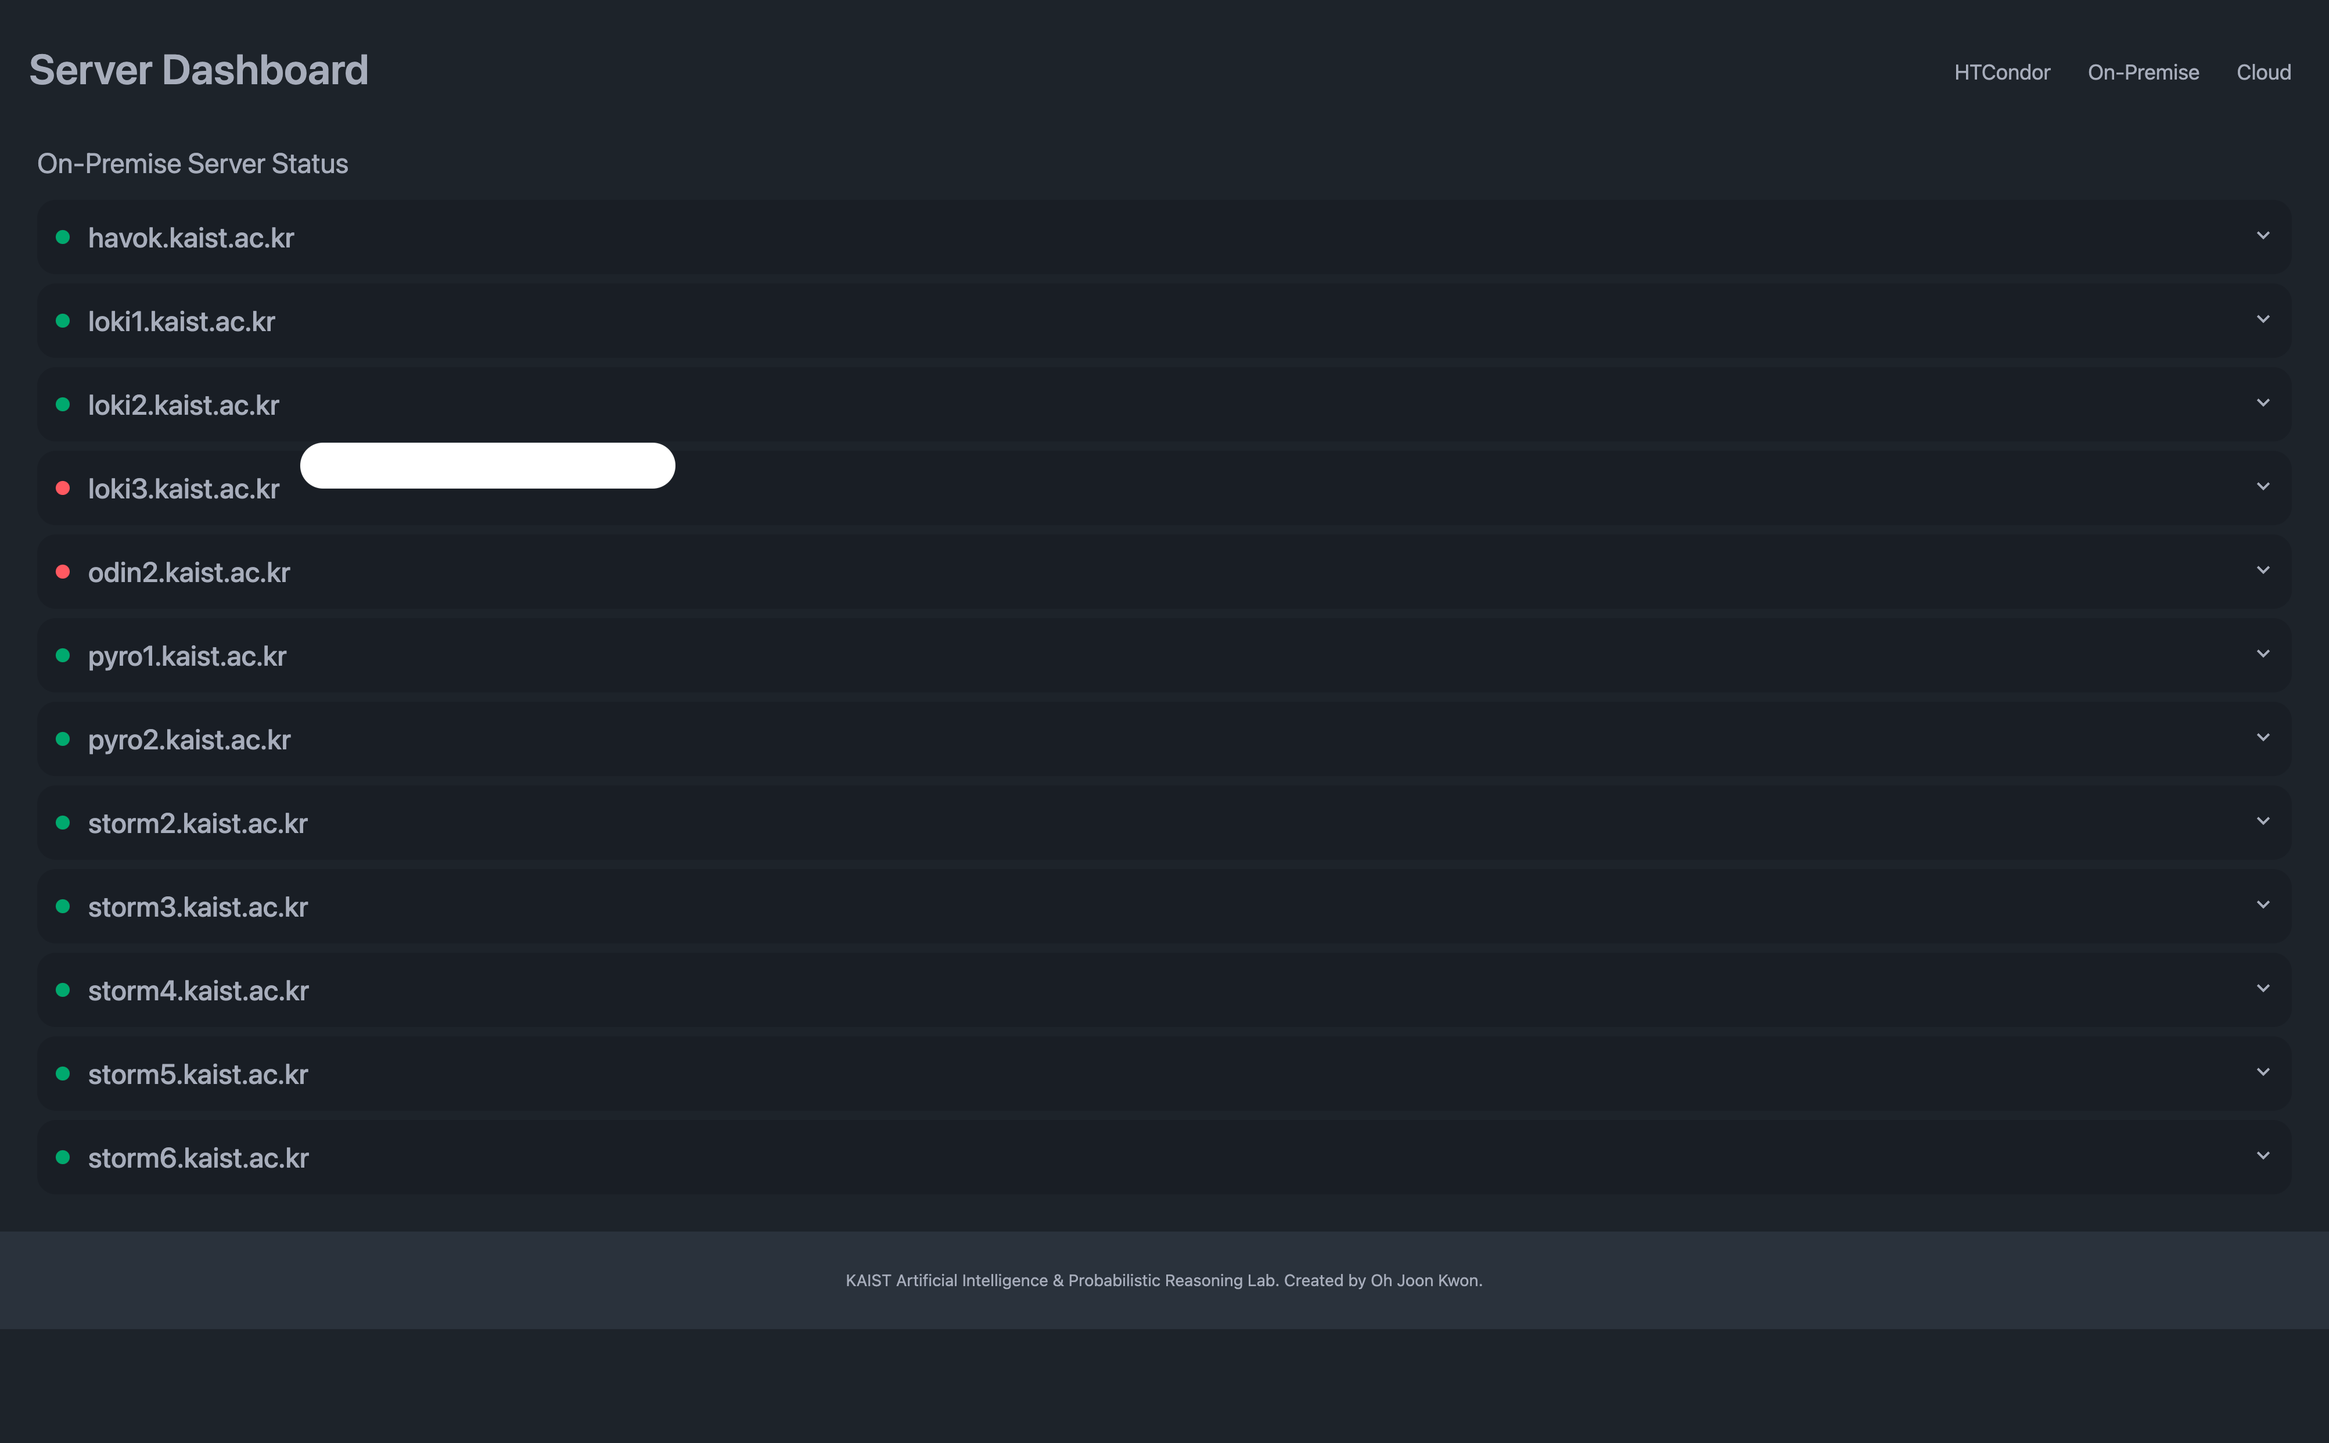
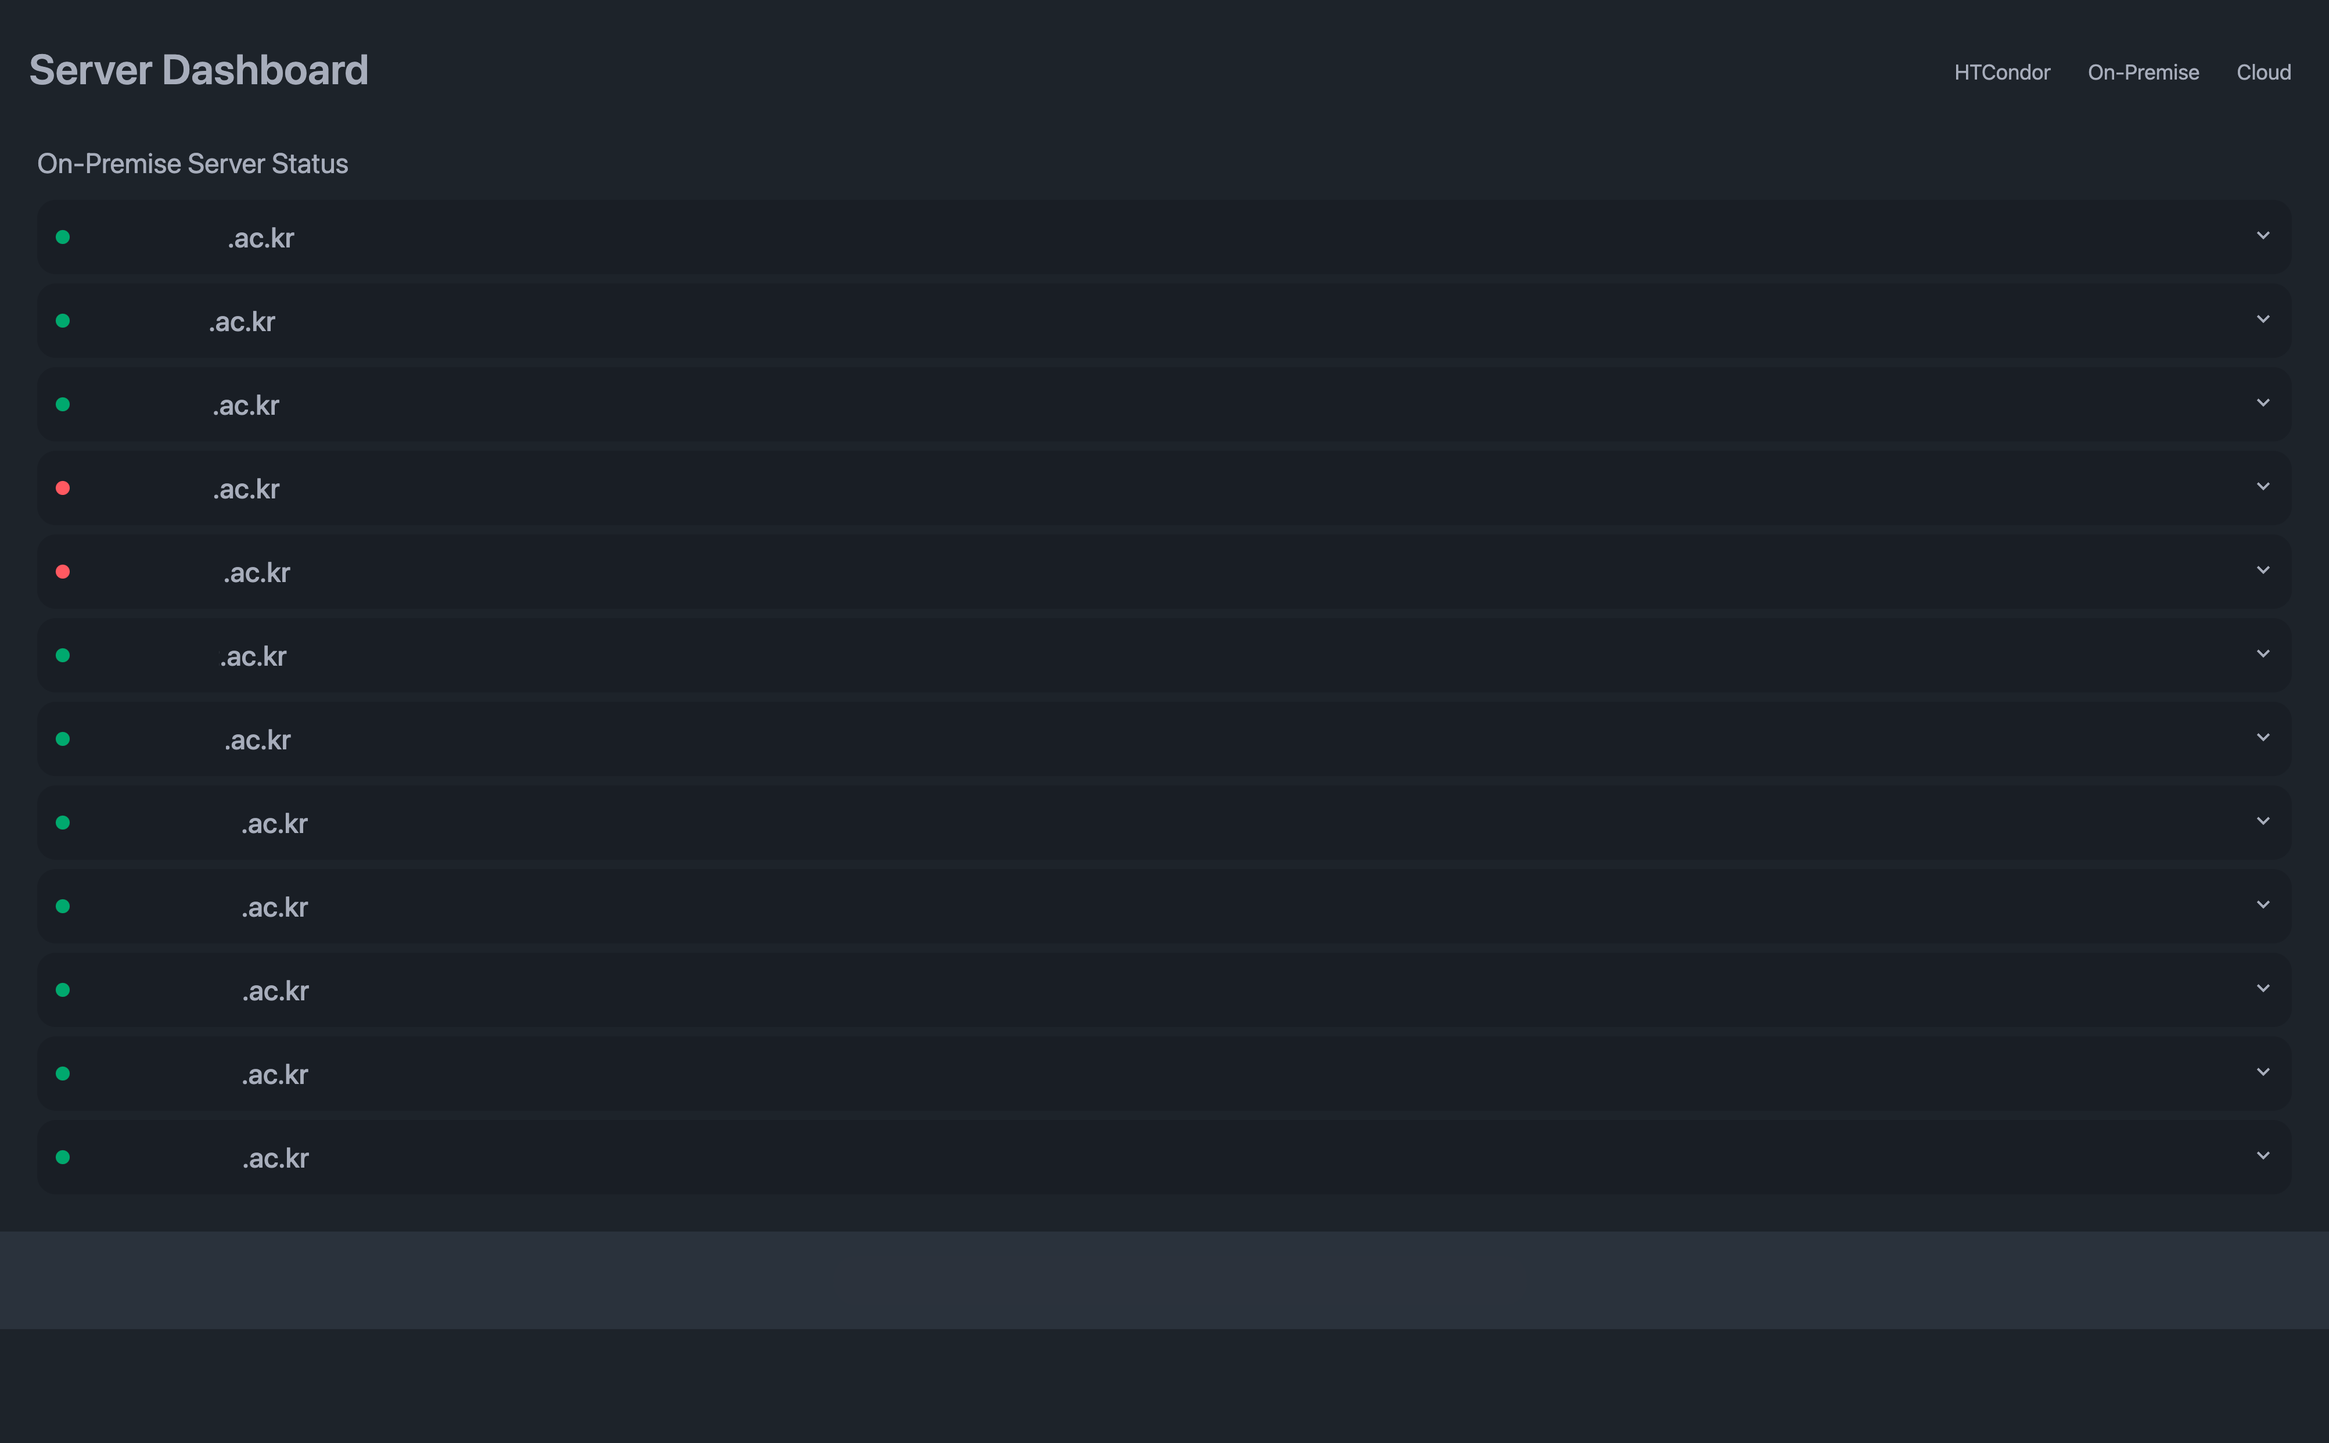
Post update.

diff --git a/src/routes/about/+page.svelte b/src/routes/about/+page.svelte
@@ -14,7 +14,7 @@
         <p class="leading-relaxed text-base text-wrap">
             I am a self-learner with interests ranging from user interface / experience, backend, to artificial intelligence. 
             Here, I am sharing my insights from my past-time tinkerings and readings. 
-            My current engineering interest is in <a href="https://svelte.dev" class="underline">Svelte</a>, <a href="https://htmx.org" class="underline">HTMX</a> (hypermedia systems) and <a href="https://kotlinlang.org/docs/multiplatform.html" class="underline">Kotlin Multiplatform</a> development with Compose.
+            I come from a non-CS background, so forgive me if I make mistakes in my posts.
         </p>
         <p class="leading-relaxed text-base text-wrap">
             I occassionally research on topics in artificial intelligence (that is not necessarily related to large language models).

diff --git a/src/posts/dashboard.md b/src/posts/dashboard.md
@@ -3,7 +3,7 @@ title: Making a simple dashboard with HTMX
 description: HTMX + FastAPI
 author: ggoggam
 date: 06/05/2024
-published: false
+published: true
 categories:
   - HTMX
   - FastAPI
@@ -12,7 +12,7 @@ categories:
 As I was almost done with my academic work, I embarked on a quick side-project to create a dashboard to monitor server status in my lab.
 There used be one made by a former lab member, 
 but it was no longer being maintained and becoming outdated.
-My main focus on the implementation was to make it 1. simple 2. maintainable  3. modestly secure and 4. look nice. The final product looks like this:
+My main focus on the implementation was to make it 1. simple 2. maintainable  3. modestly secure and 4. look nice. The final product looks like this (some details have been redacted):
 
 ### Home (Login)
 ![dashboard home](./assets/home.png)
@@ -20,10 +20,179 @@ My main focus on the implementation was to make it 1. simple 2. maintainable  3.
 ### Dashboard
 ![dashboard](./assets/dashboard.png)
 
+### Dashboard with Details
+![dashboard](./assets/dashboard_detail.png)
+
 ## Setup
-Since most of the lab members are only familiar with python, I decided to implement the web server with `fastapi`, a popular choice of ASGI framework. For a nice UI component, there are not that many choice for pure HTML/CSS. 
-I decided to go with DaisyUI[^1], which is complete with features and has nice simple look. 
-Since I am not using any JS runtime, I put a minified JS libs for HTMX, Tailwind, and DaisyUI to `static` folder.
+My choice of frameworks was heavily dependent on maintainability of the project.
+Since most of the lab members are already familiar with python and hsa no prior knowledge on popular frontend framework such as React, 
+I decided to implement the web server with `fastapi`, a popular choice of ASGI framework in python.
+All of the UIs are written in vanilla HTML/CSS with `jinja` templates and DasiyUI[^1] for a nice-looking component library.
+
+I also employed HTMX for client interactivity (refer to my previous [post](/blog/htmx) for more details).
+Since I am not using any JS runtime, I put a minified JS libs for HTMX, Tailwind, and DaisyUI along with stylesheets to `static` folder.
+Thankfully, `fastapi` already provides an api for mounting static files, so that they can be served automatically:
+
+```python
+from fastapi import FastAPI
+from fastapi.staticfiles import StaticFiles
+
+app = FastAPI()
+app.mount("/static", StaticFiles(directory="static"), name="static")
+```
+
+## Templates
+The HTML templates were written with the help of `jinja2-fragments`[^2], which allows partial rendering of template by referring to the block name. 
+This makes for a concise template files for easier maintenance when coupled with HTMX.
+For instance, we have the `index.html` with `content` block.
+
+```html
+<!-- index.html -->
+<!-- some base template to inherit from -->
+{% extends "base.html" %}
+{% block content %}
+<div class="flex flex-col gap-y-4">
+    <h1 class="text-2xl">On-Premise Server Status</h1>
+    {% set running = running | default([]) %}
+    {% if running | length > 0 %}
+    <div class="flex flex-col gap-y-2">
+        {% block on_premise_instances %}
+        {% for instance in running %}
+            {% with is_last = loop.last, name = instance.name %}
+                {% include 'on_premise/instance.html' %}
+            {% endwith %}
+        {% endfor %}
+        {% endblock %}
+    </div>
+    {% endif %}
+    <div id="page-indicator" class="htmx-indicator loading loading-bars loading-lg self-center"/>
+</div>
+{% endblock %}
+```
+
+Depending on the routes and the type of request, we can choose to return the entire template or parts of them like so. 
+Here, `/on-premise` returns the `content` block if moving from another page and the entire page if not.
+The `/on-premise/instances` returns the partially rendered block upon refresh.
+
+```python
+# dependencies
+# check_session: checks for valid session cookie. if session is invalid or has expired, move to login page
+# is_htmx_request: check for `hx-request` header in the request
+@app.get(
+    "/on-premise",
+    response_class=HTMLResponse,
+    dependencies=[Depends(check_session), Depends(is_htmx_request)],
+)
+async def on_premise_page(request: Request):
+    running_instances = await onpremise_service.get_server_infos(after=0, size=1)
+    # load all on-premise servers in background
+    return templates.TemplateResponse(
+        "index.html",
+        context={
+            "running": running_instances,
+            "request": request,
+        },
+        block_name="content" if request.is_htmx_request else None,
+    )
+
+...
+
+@app.get(
+    "/on-premise/instances",
+    response_class=HTMLResponse,
+    dependencies=[Depends(check_session)],
+)
+async def get_on_premise_instances(
+    request: Request, after: Optional[str], size: int = 1
+):
+    running_instances = await onpremise_service.get_server_infos(
+        after=after, size=size
+    )
+    return templates.TemplateResponse(
+        "index.html",
+        context={
+            "running": running_instances,
+            "request": request,
+        },
+        block_name="on_premise_instances",
+    )
+```
+
+## Minor optimizations
+I have decided to use [`paramiko`](https://www.paramiko.org/) to remotely execute commands to gather information from different servers. 
+`paramiko` is a python implementation of the SSHv2 protocol, which makes it relatively safer than executing commands with `subprocess` or its alternatives.
+Even though the information is gathered concurrently, execution takes time, especially when gathering the GPU information via `nvidia-smi` command.
+Hence, I decided to use lazy-loading and pagination to hide the loading overhead.
+Thankfully, HTMX provides this functionality via `hx-trigger`. 
+We can implement a simple lazy-loading by calling paginated endpoint if the last loaded element is revealed to the user:
+
+```html
+{% if is_last %}
+<div class="collapse collapse-arrow bg-base-200" hx-get="/on-premise/instances?after={{ name }}&size=5" hx-trigger="revealed" hx-swap="afterend" hx-indicator="#page-indicator">
+    <input type="checkbox" name="{{ name }}"/>
+    <div class="collapse-title flex flex-row items-center gap-x-4">
+        {% if instance.usage == 0 %}
+            {% set status = 'success' %}
+        {% elif instance.usage < 50 %}
+            {% set status = 'warning' %}
+        {% else %}
+            {% set status = 'error' %}
+        {% endif %}
+        <div class="badge badge-{{ status }} badge-xs"></div>
+        <div class="text-2xl font-medium">
+            {{ instance.name }}
+        </div>
+    </div>
+
+    <div class="collapse-content overflow-x-auto">
+        <div class="flex justify-end">
+            <button class="btn btn-neutral btn-md" hx-get="/on-premise/instance/{{ name }}" hx-swap="innerHTML" hx-target="#{{ name }}-content" hx-indicator="#{{ name }}-indicator">
+                <span id="{{ name }}-indicator" class="htmx-indicator loading loading-dots loading-sm"></span>
+                Refresh
+            </button>
+        </div>
+
+        <div id="{{ name }}-content" class="flex flex-col gap-y-4">
+            {% include 'on_premise/instance_content.html' %}
+        </div>
+    </div>
+</div>
+{% else %}
+<div class="collapse collapse-arrow bg-base-200">
+    <input type="checkbox" name="{{ name }}"/>
+    <div class="collapse-title flex flex-row items-center gap-x-4">
+        {% if instance.usage == 0 %}
+            {% set status = 'success' %}
+        {% elif instance.usage < 50 %}
+            {% set status = 'warning' %}
+        {% else %}
+            {% set status = 'error' %}
+        {% endif %}
+        <div class="badge badge-{{ status }} badge-xs"></div>
+        <div class="text-2xl font-medium">
+            {{ instance.name }}
+        </div>
+    </div>
+
+    <div class="collapse-content overflow-x-auto">
+        <div class="flex justify-end">
+            <button class="btn btn-neutral btn-md" hx-get="/on-premise/instance/{{ name }}" hx-swap="innerHTML" hx-target="#{{ name }}-content" hx-indicator="#{{ name }}-indicator">
+                <span id="{{ name }}-indicator" class="htmx-indicator loading loading-dots loading-sm"></span>
+                Refresh
+            </button>
+        </div>
+
+        <div id="{{ name }}-content" class="flex flex-col gap-y-4">
+            {% include 'on_premise/instance_content.html' %}
+        </div>
+    </div>
+</div>
+{% endif %}
+```
+To further speed up the loading process, I also implemented a time-to-live cache.
+Because all of service methods are implemented as `async` functions, I had to implement a wrapper for caching.
+You can refer to [this post](/blog/cache-async-py) for more details.
+I also implemented a quick and simple session management service so that only authorized users can access the information (our lab has a history of ).
 
 ## Dockerize & Deploy
 Since the server rarely undergoes OS and software updates, I have decided to dockerize the application to ensure consistency and security. 
@@ -99,6 +268,7 @@ jobs:
 
 Overall, the project took less than a day to finish the basic features thanks to the simplicity that FastAPI and HTMX bring to the development. 
 I had to make minor changes to make the dashboard more mobile friendly and maintainable, but otherwise the dashboard was well-received by the lab members. 
-Hopefully it is put to good use by the lab members.
+Hopefully it is put to good use.
 
 [^1]: https://daisyui.com
+[^2]: https://github.com/sponsfreixes/jinja2-fragments

diff --git a/src/posts/cache-async-py.md b/src/posts/cache-async-py.md
@@ -15,10 +15,10 @@ In python, it is usually done with `asyncio`, allowing developers to write concu
 However, there are times where we need to cache the output of the result of async functions.
 In synchronous python, it is usually done with cache implementations such as LRU (Least Recently Used) cache in `functools` package, but it is not applicable to async functions since they return coroutine, not function outputs. Hence we need to implement a cache, preferably in the form of decorator for a concise code.
 
+## Defining LRU cache
 In order to do this, we shall first define a key that will be used to identify arguments to a function. 
 Note that it should be **hashable** so that it can be stored as a key in a dictionary (hash map).
 We will focus on implementing LRU cache, which is basic yet one of most commonly used caching algorithm, notably in memory paging. 
-One can extend this idea to implement TTL (Time-to-Live) cache, which may be useful in web applications.
 
 ```python
 class HashableKey:
@@ -63,6 +63,39 @@ class LeastRecentlyUsedCache(OrderedDict):
             del self[oldest]
 ```
 
+
+
+## Defining TTL cache
+
+To define a time-to-live (TTL) cache, one can extend LRU to check for expiration of the cached results.
+```python
+class TimeToLiveCache(LeastRecentlyUsedCache):
+    def __init__(
+        self, ttl: Optional[int] = None, max_size: Optional[int] = None
+    ) -> None:
+        super().__init__(max_size=max_size)
+
+        self.ttl = datetime.timedelta(seconds=ttl) if ttl else None
+
+    def __contains__(self, key: Any) -> bool:
+        if key not in self.keys():
+            return False
+        expiration = super().__getitem__(key)[1]
+        if expiration and expiration < datetime.datetime.now():
+            del self[key]
+            return False
+        return True
+
+    def __getitem__(self, key: Any) -> Any:
+        value = super().__getitem__(key)[0]
+        return value
+
+    def __setitem__(self, key: Any, value: Any) -> None:
+        ttl = (datetime.datetime.now() + self.ttl) if self.ttl else None
+        super().__setitem__(key, (value, ttl))
+```
+
+## Defining a wrapper
 For a wrapper (decorator), we can define the following wrapper class using the aforementioned key and the cache implementations. 
 
 ```python
@@ -79,7 +112,7 @@ class async_lru_cache:
             return self.lru[key]
         return wrapper        
 ```
-
+The wrapper for TTL can be written in a similar way, replace `self.lru` with an instance of TTL cache defined above.
 Now, we can use this with an asynchronous function.
 
 ```python

diff --git a/src/posts/trc.md b/src/posts/trc.md
@@ -1,0 +1,16 @@
+---
+title: TPU Research Cloud
+description: Google's lifesaver for independent researchers
+author: ggoggam
+date: 03/04/2024
+published: true
+categories:
+  - TPU
+  - Deep Learning
+---
+
+The TPU Research Cloud (TRC) Program is an initiative by Google to provide computing resources to independent or academic researchers around the world.
+It is gaining popularity among researchers as it is entirely **FREE**, only with minimal overhead cost for networking and storage.
+
+## Tensor Processing Units
+Tensor processing units (TPUs)

diff --git a/src/posts/compose.md b/src/posts/compose.md
@@ -5,7 +5,7 @@ author: ggoggam
 date: 02/01/2024
 published: true
 categories:
-  - Client
+  - KMM
   - Compose
   - Cross-platform
 ---
